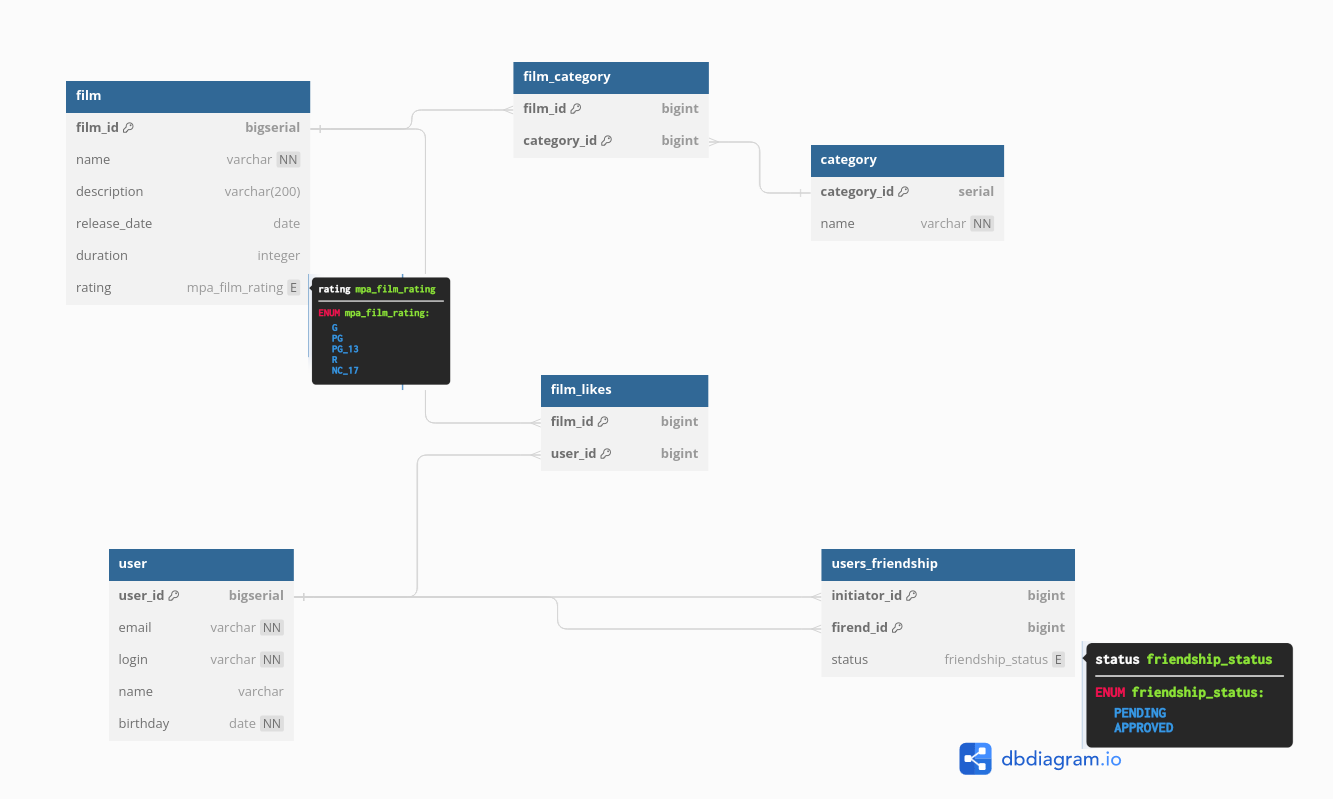
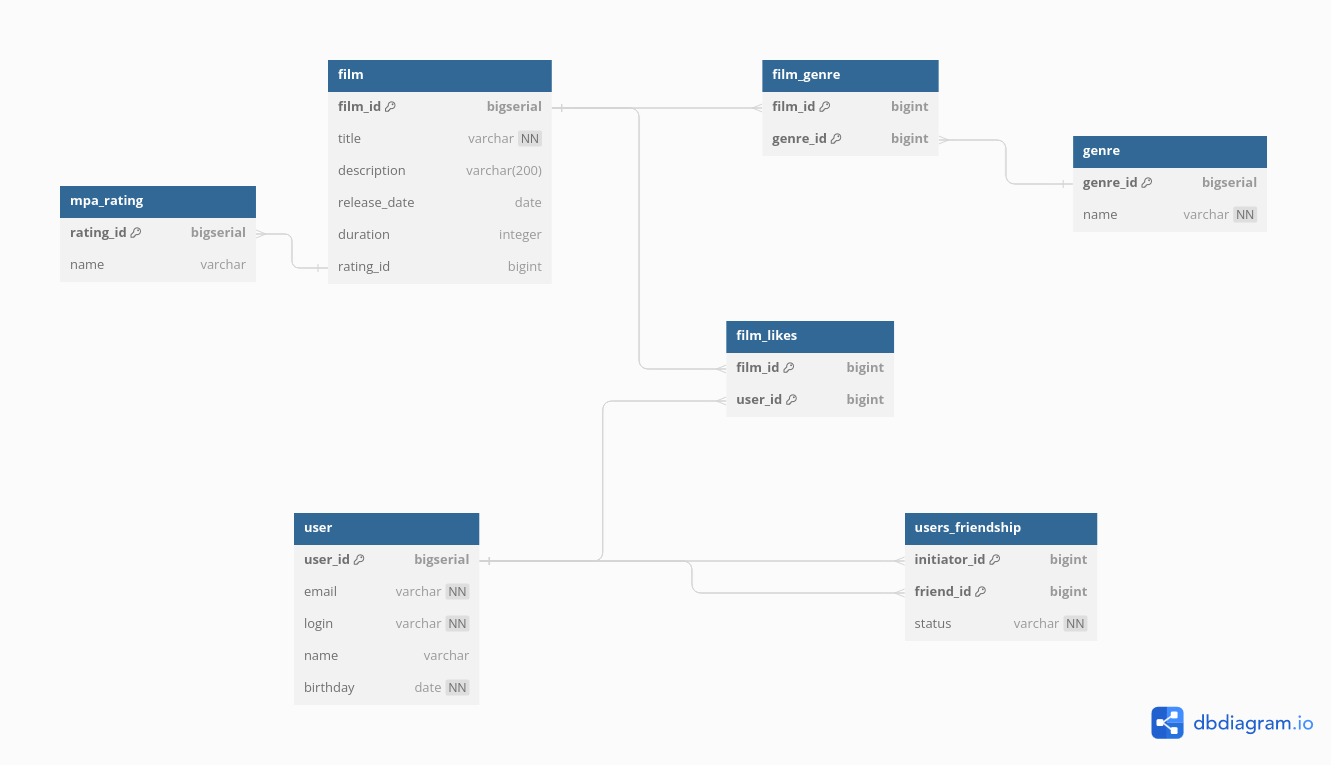
Поменял название таблицы с жанрами, убрал enum, добавил таблицу mpa_rating

diff --git a/README.md b/README.md
@@ -6,80 +6,14 @@ Template repository for Filmorate project.
 
 ![Screenshot of a comment on a GitHub issue showing an image, added in the Markdown, of an Octocat smiling and raising a tentacle.](./schema.png)
 
-```sql
-CREATE TYPE mpa_film_rating AS ENUM (
-  'G',
-  'PG',
-  'PG_13',
-  'R',
-  'NC_17'
-);
+### `mpa_rating`
 
-CREATE TYPE friendship_status AS ENUM (
-  'PENDING',
-  'APPROVED'
-);
+Содержит информацию о рейтингах Motion Picture Association.
 
-CREATE TABLE film (
-  film_id bigserial PRIMARY KEY,
-  name varchar NOT NULL,
-  description varchar(200),
-  release_date date,
-  duration integer,
-  rating mpa_film_rating
-);
+Таблица состоит из полей:
 
-CREATE TABLE category (
-  category_id serial PRIMARY KEY,
-  name varchar NOT NULL
-);
-
-CREATE TABLE film_category (
-  film_id bigint,
-  category_id bigint,
-  PRIMARY KEY (film_id, category_id),
-  CONSTRAINT fc_fk_film
-    FOREIGN KEY(film_id) 
-      REFERENCES film(film_id) ON DELETE CASCADE,
-  CONSTRAINT fc_fk_category
-    FOREIGN KEY(category_id) 
-      REFERENCES category(category_id) ON DELETE CASCADE
-);
-
-CREATE TABLE "user" (
-  user_id bigserial PRIMARY KEY,
-  email varchar NOT NULL,
-  login varchar NOT NULL,
-  name varchar,
-  birthday date NOT NULL
-);
-
-
-CREATE TABLE film_likes (
-  film_id bigint,
-  user_id bigint,
-  PRIMARY KEY (film_id, user_id),
-  CONSTRAINT fl_fk_film_id
-    FOREIGN KEY(film_id) 
-      REFERENCES film(film_id) ON DELETE CASCADE,
-  CONSTRAINT fl_fk_user_id
-    FOREIGN KEY(user_id) 
-      REFERENCES "user"(user_id) ON DELETE CASCADE
-);
-
-CREATE TABLE users_friendship (
-  initiator_id bigint,
-  friend_id bigint,
-  status friendship_status,
-  PRIMARY KEY (initiator_id, friend_id),
-  CONSTRAINT uf_fk_initiator
-      FOREIGN KEY(initiator_id) 
-        REFERENCES "user"(user_id) ON DELETE CASCADE,
-  CONSTRAINT uf_fk_friend
-    FOREIGN KEY(friend_id) 
-      REFERENCES "user"(user_id) ON DELETE CASCADE
-);
-```
+- `rating_id` — первичный ключ идентификатор рейтинга;
+- `name` — название рейтинга;
 
 ### `film`
 
@@ -88,33 +22,31 @@ CREATE TABLE users_friendship (
 Таблица состоит из полей:
 
 - первичный ключ `film_id` — идентификатор фильма;
-- `name` — название фильма;
+- `title` — название фильма;
 - `description` — описание фильма;
 - `release_date` — дата выхода;
 - `duration` — продолжительность фильма в минутах;
-- `rating` — возрастной рейтинг, например:
-    - `PG` — детям рекомендуется смотреть такой фильм с родителями;
-    - `PG-13` — детям до 13 лет смотреть такой фильм нежелательно.
+- `rating_id` — идентификатор рейтинга из mpa_rating;
 
-### `category`
+### `genre`
 
-Содержит информацию о категориях фильмов.
+Содержит информацию о жанрах фильмов.
 
 Таблица состоит из полей:
 
-- первичный ключ `category_id` — идентификатор категории;
-- `name` — название фильма;
+- первичный ключ `genre_id` — идентификатор жанра;
+- `name` — название жанра;
 
-### `film_category`
+### `film_genre`
 
-Содержит информацию о категориях фильмов из таблицы film.
+Содержит информацию о жанрах фильмов из таблицы film.
 
 Таблица состоит из полей:
 
-- `film_id` —идентификатор фильма из film;
-- `category_id` — идентификатор категории из category;
+- `film_id` — идентификатор фильма из film;
+- `genre_id` — идентификатор жанра из genre;
 
-В этой таблице составной первичный ключ по полям film_id и category_id
+В этой таблице составной первичный ключ по полям film_id и genre_id
 
 ### `film_likes`
 
@@ -147,9 +79,9 @@ CREATE TABLE users_friendship (
 
 - `initiator_id` — пользователь, который отправил запрос на добавление в друзья;
 - `friend_id` — пользователь которому отправлен запрос в друзья;
-- `status` — статус запроса:
-    - `PENDING` — ожидается подтверждение;
-    - `APPROVED` — подтверждено.
+- `status` — статус запроса, например (`PENDING`, `APPROVED`)
+
+В этой таблице составной первичный ключ по полям initiator_id и friend_id
 
 ## Примеры запросов к бд
 
